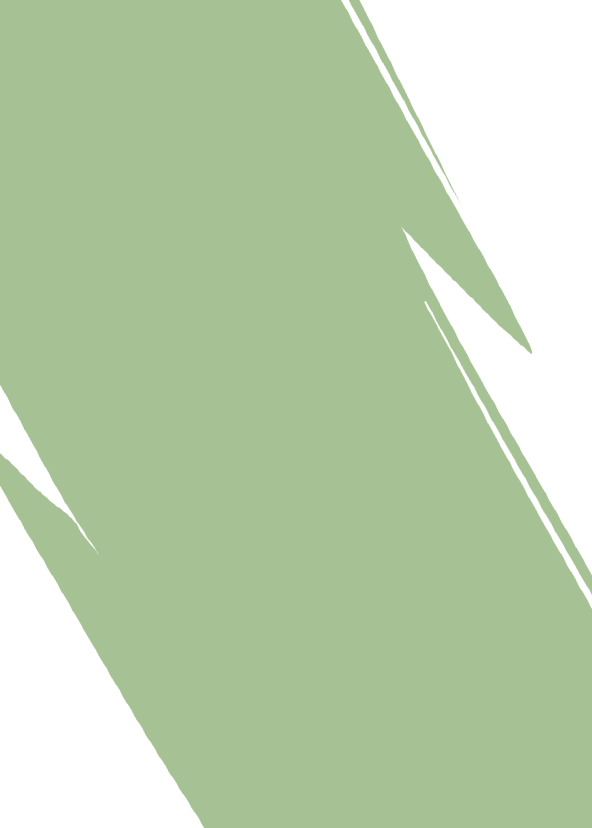
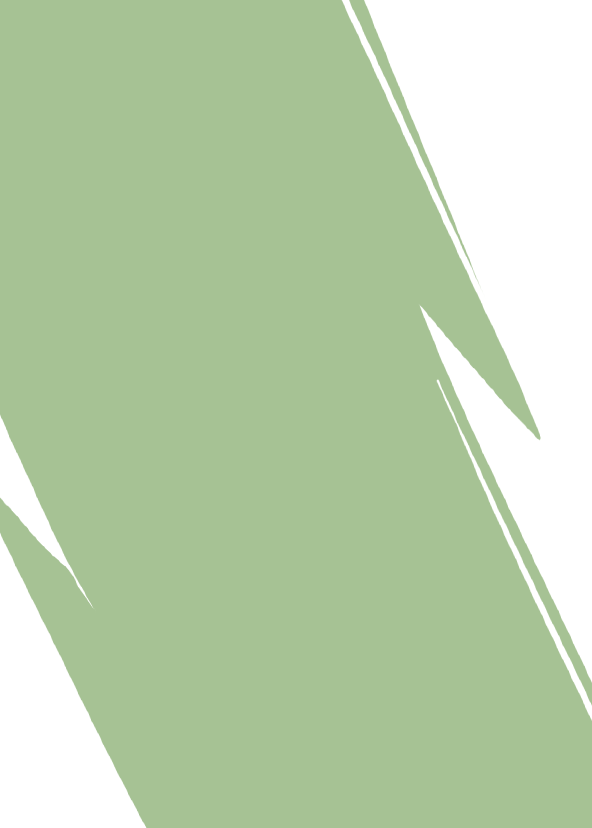
Todos los ajustes graficos para las cards

Changed region(s): [[0.5777, 0.0, 1.0, 0.8756], [0.0, 0.4529, 0.3649, 1.0]]

diff --git a/assets/js/main.js b/assets/js/main.js
@@ -296,7 +296,7 @@
                 footer: '--card-green-b',
                 cardEffect: 0x5f856f
             },
-            mask: "/assets/images/others/mask/card-mask-gray-b.png",
+            mask: "/assets/images/others/mask/card-mask-green-c.png",
             stats: {
                 right: "20px",
                 top: "40%"
@@ -367,7 +367,7 @@
                 footer: '--card-purple-b',
                 cardEffect: 0x57698e
             },
-            mask: "/assets/images/others/mask/card-mask-purple.png",
+            mask: "/assets/images/others/mask/card-mask-purple-c.png",
             stats: {
                 bottom: "0"
             }
@@ -384,7 +384,7 @@
                 footer: '--card-blue-b',
                 cardEffect: 0x393459
             },
-            mask: "/assets/images/others/mask/card-mask-blue.png",
+            mask: "/assets/images/others/mask/card-mask-blue-e.png",
             stats: {
                 top: "30%"
             }
@@ -401,7 +401,7 @@
                 footer: '--card-pink-b',
                 cardEffect: 0xd34c41
             },
-            mask: "/assets/images/others/mask/card-mask-pink.png",
+            mask: "/assets/images/others/mask/card-mask-pink-c.png",
             stats: {
                 top: "25%",
                 right: "20px",
@@ -415,11 +415,11 @@
                 top: "144px"
             },
             colors: {
-                card: '--card-red-a',
-                footer: '--card-red-b',
-                cardEffect: 0xba2626
+                card: '--card-sky-a',
+                footer: '--card-sky-b',
+                cardEffect: 0x709aa3
             },
-            mask: "/assets/images/others/mask/card-mask-red.png",
+            mask: "/assets/images/others/mask/card-mask-sky-b.png",
             stats: {
                 top: "30%"
             }
@@ -432,11 +432,11 @@
                 bottom: "-112px"
             },
             colors: {
-                card: '--card-red-a',
-                footer: '--card-red-b',
-                cardEffect: 0xba2626
+                card: '--card-yellow-a',
+                footer: '--card-yellow-b',
+                cardEffect: 0xce8d2d
             },
-            mask: "/assets/images/others/mask/card-mask-red.png",
+            mask: "/assets/images/others/mask/card-mask-yellow-b.png",
             stats: {
                 bottom: "20px"
             }
@@ -451,9 +451,9 @@
             colors: {
                 card: '--card-red-a',
                 footer: '--card-red-b',
-                cardEffect: 0xdba2626
+                cardEffect: 0x393459
             },
-            mask: "/assets/images/others/mask/card-mask-red.png",
+            mask: "/assets/images/others/mask/card-mask-blue-d.png",
             stats: {
                 top: "25%"
             }

diff --git a/assets/css/main.css b/assets/css/main.css
@@ -57,7 +57,7 @@ html,body{
 }
 
 html{
-    background-color: #4cbcf8;
+    background-color: var(--white);
 }
 
 body{
